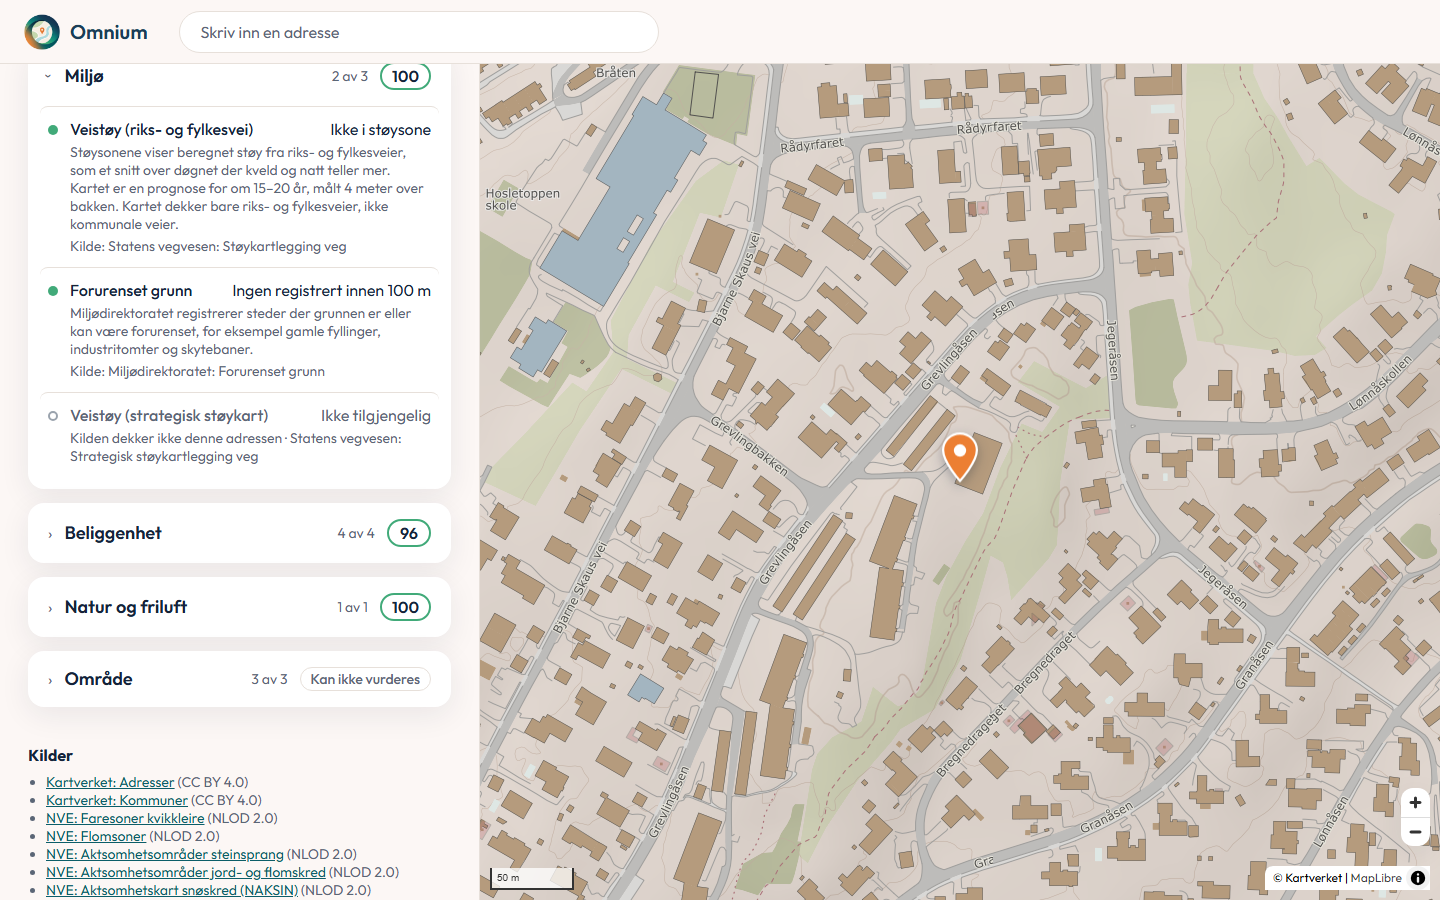
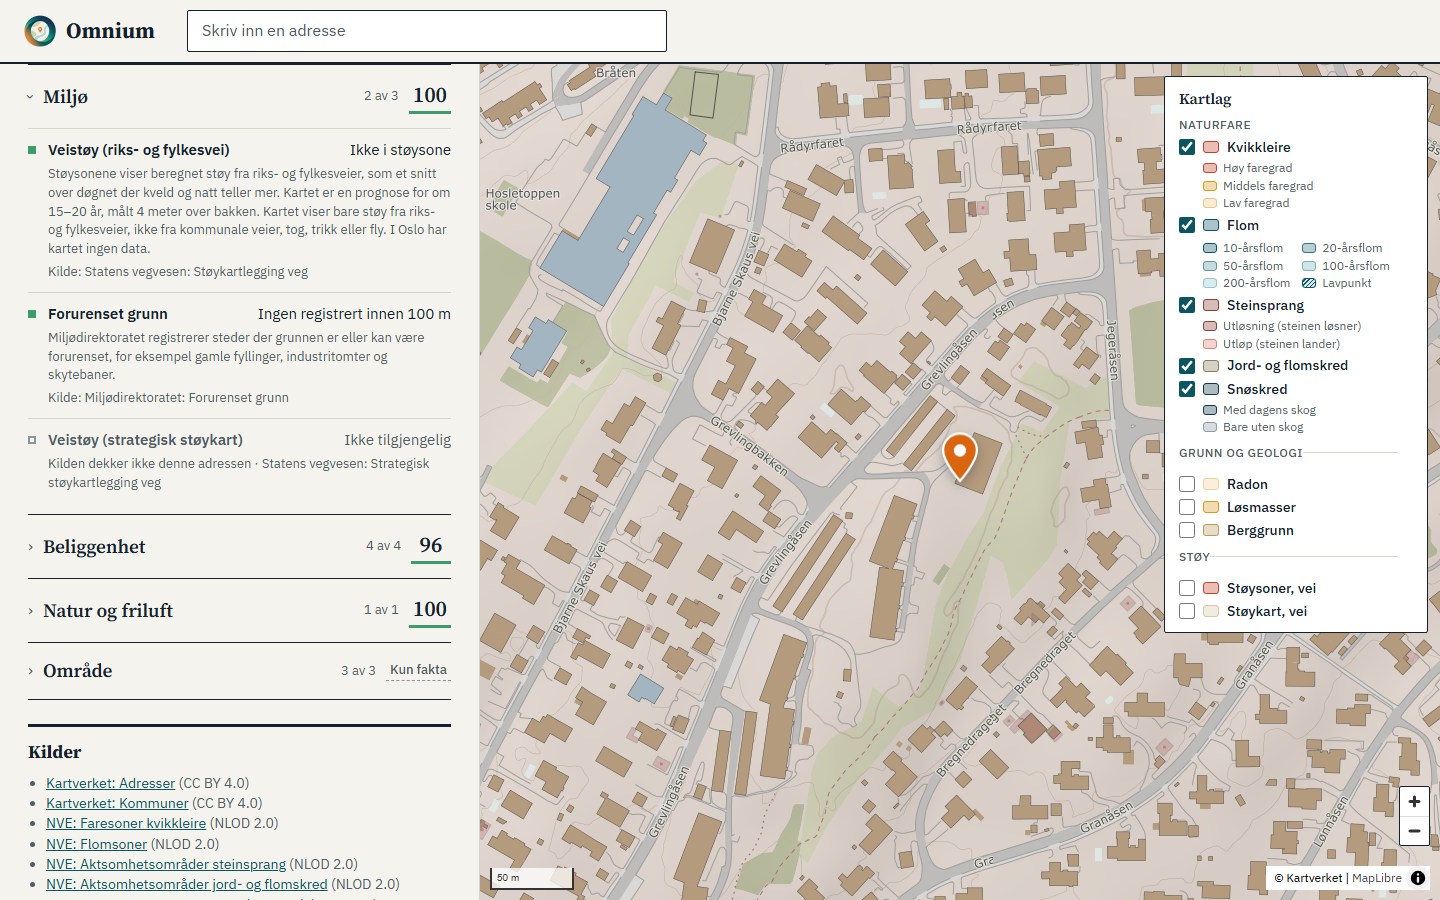
Screenshots 1-5 retaken with the editorial theme (67 vs 13); Område card works in DEMO.md

diff --git a/docs/DEMO.md b/docs/DEMO.md
@@ -75,7 +75,7 @@ What the pitch needs, and who it depends on. Update this as things land.
 | Perspective scores (Bo her, Bygge her, Familie, Pendler) | In the profile. Not on the page yet | Erik |
 | Explanations under each data point | Works: main text and the matching "Når ..." text from `docs/TEXTS.md` | Lukas |
 | AI summary | Works. Checked with the key on 2026-11-07: Arendalsgata names the quick clay first, Grevlingåsen invents nothing and says NVE has not mapped quick clay or flood there. Without the key the card shows the fact sentences | Erik, Lukas |
-| "Område" card | Says "Kan ikke vurderes" although all 3 data points are there. Don't open it in the demo | Lukas, Erik |
+| "Område" card | Works: shows "Kun fakta" (information only, no score) | Lukas, Erik |
 | Map tiles | Take 3–5 seconds to appear the first time. Open both pages before presenting | — |
 
 For the 2:15 part, open Miljø on Grevlingåsen: the strategic noise map shows "Ikke tilgjengelig".
@@ -156,10 +156,12 @@ Note: Haiku costs about $0.0005 per address (`PLAN.md`), cached in the database.
 Saved in `docs/demo/` at 1440×900. Retake them after big changes (headless Edge works: `msedge --headless=new --window-size=1440,900 --virtual-time-budget=15000 --screenshot=<file> <url>`).
 
 1. `1-start.png`: the start page with the empty address field. **Taken.**
-2. `2-grevlingasen.png`: the Grevlingåsen 17 page, top part (no warnings, scores). **Retake:** it shows the old score 75.
+2. `2-grevlingasen.png`: the Grevlingåsen 17 page, top part (no warnings, scores). **Taken** (score 67, editorial theme).
 3. `3-data-point.png`: the Miljø card opened on Grevlingåsen, with explanations, sources and one "Ikke tilgjengelig". **Taken.** It also covers 6.
-4. `4-arendalsgata.png`: the Arendalsgata 22 page with the quick-clay warning at the top. **Retake:** it shows the old score 20.
+4. `4-arendalsgata.png`: the Arendalsgata 22 page with the quick-clay warning at the top. **Taken** (score 13, quick-clay zone, AI summary).
 5. `5-map.png`: the map with the quick-clay zone around Arendalsgata. **Taken.**
 6. `6-missing.png`: a data point shown as "Ikke tilgjengelig". Covered by 3.
 
-Retake 2 and 4 once Erik's perspective cards are on the page, so they only need taking once.
+All five retaken on 2026-11-07 after Erik's editorial theme. Retake 2 and 4 again once Erik's perspective cards are on the page.
+
+Tip: headless Edge with `--virtual-time-budget` sometimes captures the map before the hazard layers load. Driving Edge over `--remote-debugging-port` and waiting about 12 seconds per page works every time. Check that the URL is the port Vite printed: if another dev server holds 5173, you get an error page instead.
